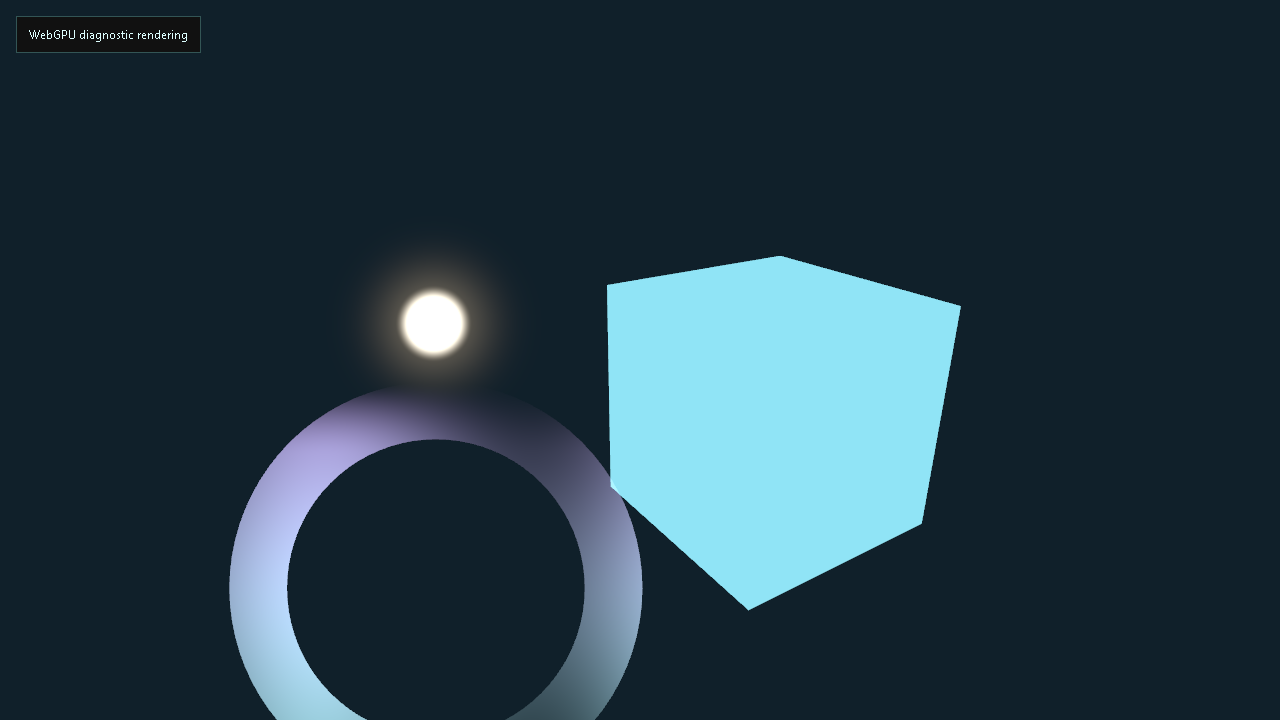
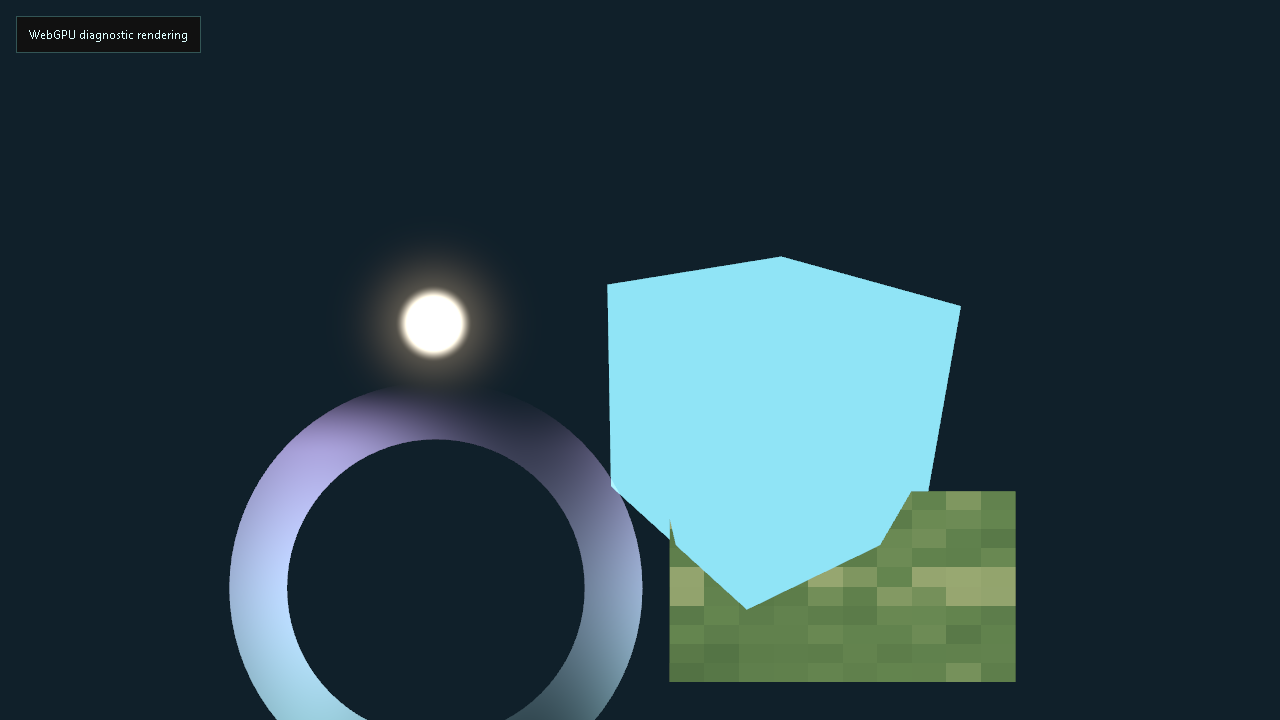
feat(konveyor): add meadow diagnostic material island

Changed region(s): [[0.5, 0.6722, 0.8125, 0.9472]]

diff --git a/js/diagnostics/webgpuDiagnostic.js b/js/diagnostics/webgpuDiagnostic.js
@@ -50,13 +50,34 @@ function createPortalRingNodeMaterial({ MeshBasicNodeMaterial, AdditiveBlending,
     return material;
 }
 
+function createMeadowQuadNodeMaterial({ MeshLambertNodeMaterial, DoubleSide, TSL }) {
+    const { dot, floor, fract, mix, sin, smoothstep, uv, vec2, vec3 } = TSL;
+    const baseColor = vec3(0.176, 0.345, 0.118);
+    const midColor = vec3(0.318, 0.565, 0.188);
+    const tipColor = vec3(0.643, 0.792, 0.337);
+    const muv = uv().mul(5.0);
+    const hashVector = vec2(127.1, 311.7);
+    const n1 = fract(sin(dot(floor(muv), hashVector)).mul(43758.5453));
+    const n2 = fract(sin(dot(floor(muv.mul(2.0)), hashVector)).mul(43758.5453));
+    const blend = mix(n1, n2, 0.5);
+
+    const material = new MeshLambertNodeMaterial();
+    material.colorNode = mix(
+        mix(baseColor, midColor, blend),
+        tipColor,
+        smoothstep(0.6, 0.95, blend)
+    );
+    material.side = DoubleSide;
+    return material;
+}
+
 export async function bootWebGpuDiagnostic() {
     const state = window.__sdsWebGpuDiagnostic = {
         ...(window.__sdsWebGpuDiagnostic || {}),
         requested: true,
         ok: false,
         renderer: 'webgpu',
-        islands: ['sun-billboard', 'portal-ring'],
+        islands: ['sun-billboard', 'portal-ring', 'meadow-quad'],
         frames: 0,
     };
 
@@ -98,7 +119,10 @@ export async function bootWebGpuDiagnostic() {
         RingGeometry,
         Mesh,
         MeshBasicNodeMaterial,
+        MeshLambertNodeMaterial,
         Color,
+        AmbientLight,
+        DirectionalLight,
         AdditiveBlending,
         DoubleSide,
         TSL,
@@ -113,6 +137,10 @@ export async function bootWebGpuDiagnostic() {
 
     const scene = new Scene();
     scene.background = new Color(0x10202a);
+    scene.add(new AmbientLight(0xffffff, 0.65));
+    const keyLight = new DirectionalLight(0xffffff, 1.2);
+    keyLight.position.set(1.5, 2.2, 3.0);
+    scene.add(keyLight);
 
     const camera = new PerspectiveCamera(55, window.innerWidth / window.innerHeight, 0.1, 100);
     camera.position.set(0, 0.2, 3);
@@ -137,6 +165,13 @@ export async function bootWebGpuDiagnostic() {
     );
     portal.position.set(-0.85, -0.75, 0.12);
     scene.add(portal);
+
+    const meadow = new Mesh(
+        new PlaneGeometry(1.45, 0.8, 1, 1),
+        createMeadowQuadNodeMaterial({ MeshLambertNodeMaterial, DoubleSide, TSL })
+    );
+    meadow.position.set(0.85, -0.75, 0.1);
+    scene.add(meadow);
 
     const resize = () => {
         const w = Math.max(1, window.innerWidth);
@@ -169,6 +204,8 @@ export async function bootWebGpuDiagnostic() {
         material.dispose();
         portal.geometry.dispose();
         portal.material.dispose();
+        meadow.geometry.dispose();
+        meadow.material.dispose();
         renderer.dispose();
         sun.geometry.dispose();
         sun.material.dispose();

diff --git a/docs/archive/research/konveyor-shader-surface-inventory-2026-05-14.md b/docs/archive/research/konveyor-shader-surface-inventory-2026-05-14.md
@@ -10,11 +10,11 @@ The current WebGL renderer path depends on ten active custom shader surfaces
 plus three patch chains that mutate Three's generated GLSL through
 `onBeforeCompile`.
 
-The safest first production-adjacent island is `SunBillboard`: it is small,
+The safest first production-adjacent island was `SunBillboard`: it is small,
 cosmetic, has no scene data dependency, and maps cleanly to a
-`MeshBasicNodeMaterial`/TSL expression. The sun billboard and portal ring
-formulas are now ported inside the diagnostic island only. Do not start
-production wiring with terrain, grass, water, sheep, or Kiln impostors.
+`MeshBasicNodeMaterial`/TSL expression. The sun billboard, portal ring, and
+meadow-quad formulas are now ported inside the diagnostic island only. Do not
+start production wiring with terrain, grass, water, sheep, or Kiln impostors.
 
 ## Active ShaderMaterial Surfaces
 
@@ -36,8 +36,8 @@ production wiring with terrain, grass, water, sheep, or Kiln impostors.
 | Patch | File | Mutated material | Why it matters | WebGPU migration note |
 |---|---|---|---|---|
 | Tree wind plus occluder fade | `js/world/shaderPatches.js`, `js/shaders/OccluderFadePatch.js` | Tree GLB leaf `MeshStandardMaterial` instances. | Adds wind sway, alpha hash, and camera-to-dog dither fade. | Replace with NodeMaterial/TSL leaf material or a GLB material normalization pass. Cannot carry `onBeforeCompile` into WebGPU. |
-| Rock rim light | `js/world/shaderPatches.js` | Rock GLB materials. | Adds stylized fresnel rim keyed to atmosphere sun color. | Good later TSL island after sun/portal, because it is small but depends on GLB material ownership. |
-| Meadow quad tint | `js/GrassSystem.js` | Far-ring `MeshLambertMaterial`. | Replaces flat distant grass with UV-noise color variance. | Candidate before full blade grass; still needs fog and far-ring screenshots. |
+| Rock rim light | `js/world/shaderPatches.js` | Rock GLB materials. | Adds stylized fresnel rim keyed to atmosphere sun color. | Good later TSL island after sun/portal/meadow, because it is small but depends on GLB material ownership. |
+| Meadow quad tint | `js/GrassSystem.js` | Far-ring `MeshLambertMaterial`. | Replaces flat distant grass with UV-noise color variance. | Formula now exists in the diagnostic TSL harness as `MeshLambertNodeMaterial`. Production wiring still needs fog and far-ring screenshots. |
 
 ## Dormant Or Supporting Surfaces
 
@@ -52,10 +52,10 @@ production wiring with terrain, grass, water, sheep, or Kiln impostors.
 
 ## Recommended Migration Order
 
-1. Prototype meadow-quad TSL as the first real production grass-adjacent
-   material. It is far cheaper than blade grass and exercises fog/scene color.
-2. Move to cloud layer and sky together only after fog/horizon color ownership
+1. Move to cloud layer and sky together only after fog/horizon color ownership
    is explicit.
+2. Prototype rock rim or tree-leaf wind only after GLB material ownership is
+   explicit; both depend on current `onBeforeCompile` patch chains.
 3. Defer terrain, water, blade grass, sheep, and Kiln impostors until the
    smaller islands have proved material ownership, bundle posture, and visual
    gates.

diff --git a/docs/konveyor-autonomous-run.md b/docs/konveyor-autonomous-run.md
@@ -71,8 +71,8 @@ WebGPU now has a diagnostic island, not a production renderer:
   records the default production-preview URL with `diagnostic: null`.
 - [`archive/research/konveyor-shader-surface-inventory-2026-05-14.md`](archive/research/konveyor-shader-surface-inventory-2026-05-14.md)
   ranks the current GLSL and `onBeforeCompile` migration surface. The sun
-  billboard and portal ring formulas are now ported inside the diagnostic
-  island.
+  billboard, portal ring, and meadow-quad formulas are now ported inside the
+  diagnostic island.
 - [`../cycle36-validation/runtime/webgpu-diagnostic-islands-chrome.png`](../cycle36-validation/runtime/webgpu-diagnostic-islands-chrome.png)
   is a Chrome 148 screenshot artifact for the diagnostic material islands.
 
@@ -84,8 +84,9 @@ one material system at a time.
 
 Recommended order:
 
-1. **Pick the next smallest production-adjacent material island.** Prefer the
-   meadow quad. Do not start with terrain + grass + water + sky all at once.
+1. **Pick the next smallest production-adjacent material island.** Prefer cloud
+   layer only after fog/horizon color ownership is explicit. Do not start with
+   terrain + grass + water + sky all at once.
 2. **Keep measurement attached to every change.** Run the relevant perf,
    latency, screenshot, test, lint, and build gates before claiming progress.
 3. **Advance through the Konveyor phase outline.** Keep moving from cosmetic

diff --git a/progress.md b/progress.md
@@ -20,3 +20,4 @@ Current prompt for the next autonomous run: /goal On branch exp/konveyor-webgpu-
 - 2026-05-14: Completed shader/material inventory in `docs/archive/research/konveyor-shader-surface-inventory-2026-05-14.md`. Recommended first production-adjacent island: port the sun billboard formula inside the diagnostic WebGPU harness, not production wiring.
 - 2026-05-14: Ported the sun billboard formula into the diagnostic WebGPU harness as a TSL `MeshBasicNodeMaterial`.
 - 2026-05-14: Ported the portal ring formula into the same diagnostic harness. Evidence now reports `islands: ["sun-billboard", "portal-ring"]`; refreshed screenshot artifact at `cycle36-validation/runtime/webgpu-diagnostic-islands-chrome.png`.
+- 2026-05-14: Ported the meadow-quad UV hash/tint formula into the same diagnostic harness as `MeshLambertNodeMaterial`. Evidence now reports `islands: ["sun-billboard", "portal-ring", "meadow-quad"]`; default production-preview evidence still reports `diagnostic: null`.
